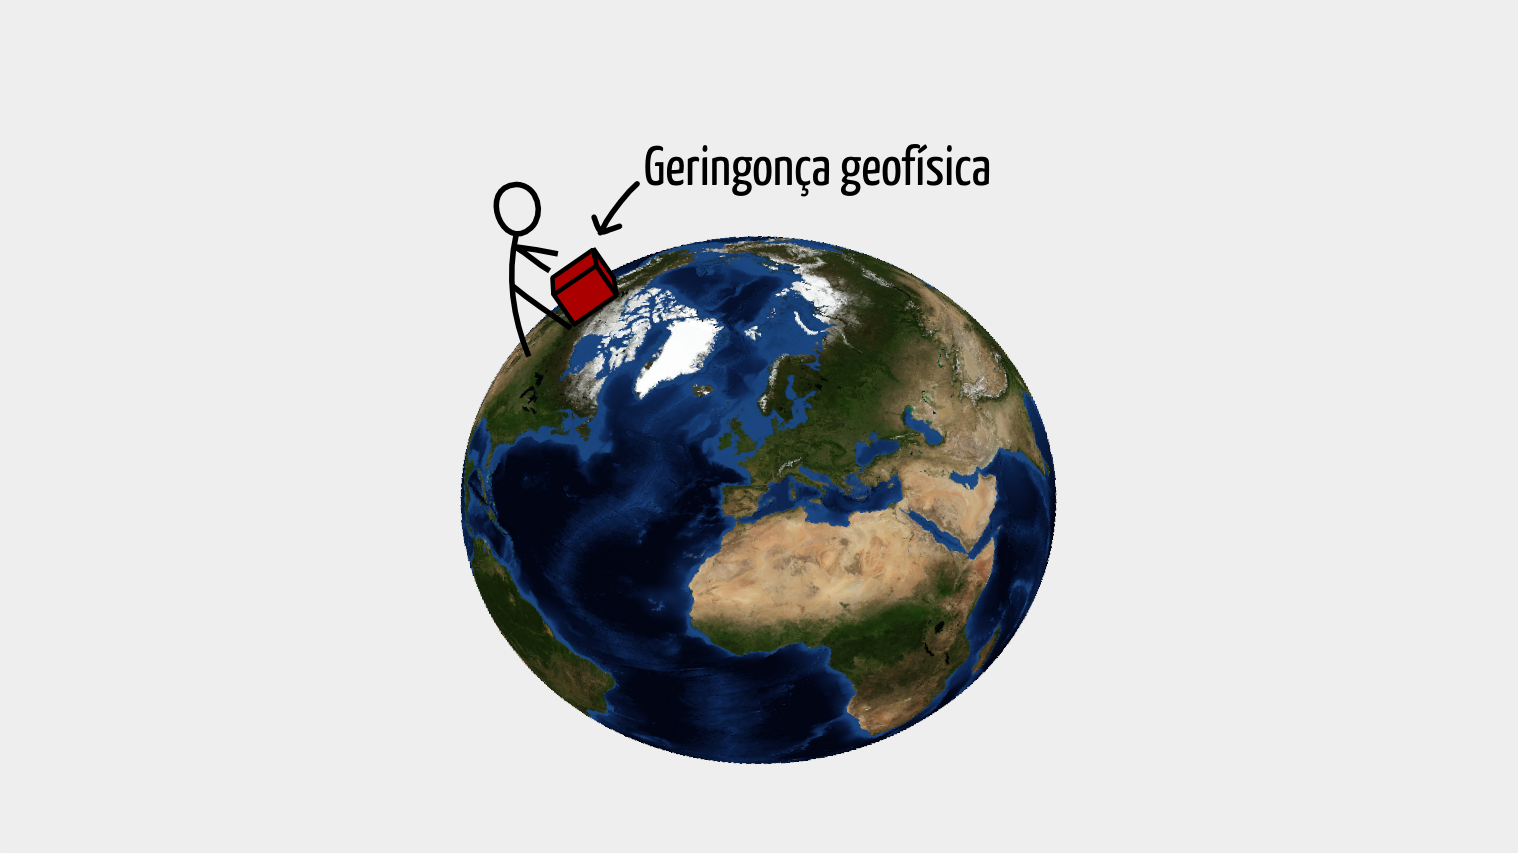
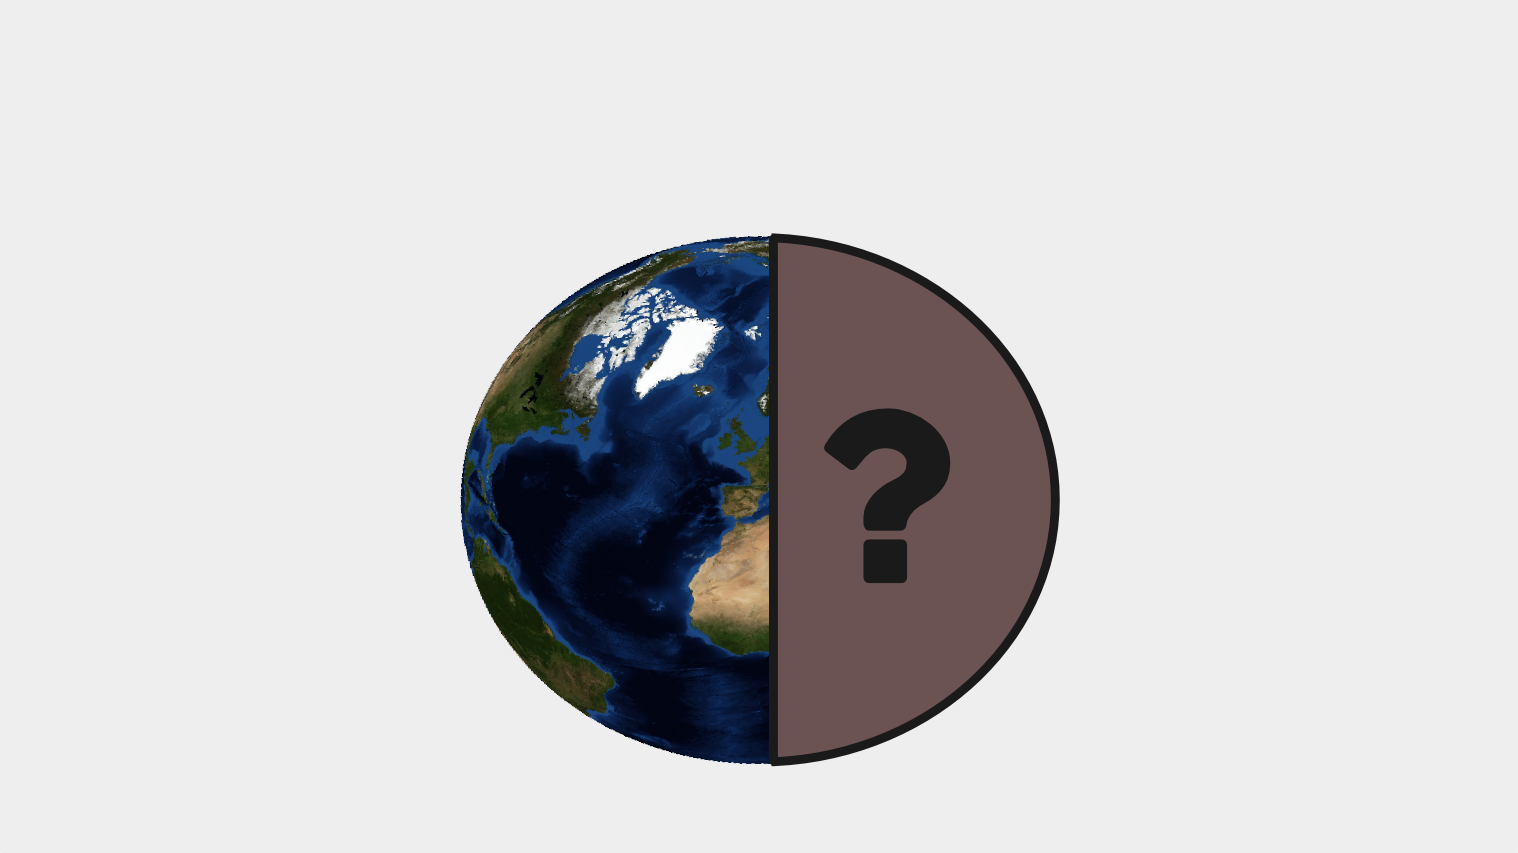
Slide extra para o que eh inversao

Changed region(s): [[0.4954, 0.2743, 0.7121, 0.9144], [0.3096, 0.1524, 0.6502, 0.3962]]

diff --git a/introducao.md b/introducao.md
@@ -91,6 +91,8 @@ Inversão?
 
 # {data-background="img/inversao-e-geofisica-3.png" data-background-transition="none"}
 
+# {data-background="img/inversao-e-geofisica-4.png" data-background-transition="none"}
+
 ---
 
 <span style="color:#e72323">medições</span> na superfície
@@ -99,7 +101,7 @@ Inversão?
 
 <span style="color:#00db74">modelo</span> da Terra
 
-<p class="fragment" style="font-size:120pt; text-decoration:underline;">
+<p class="fragment" style="font-size:100pt; text-decoration:underline;">
 Problema inverso
 </p>
 
